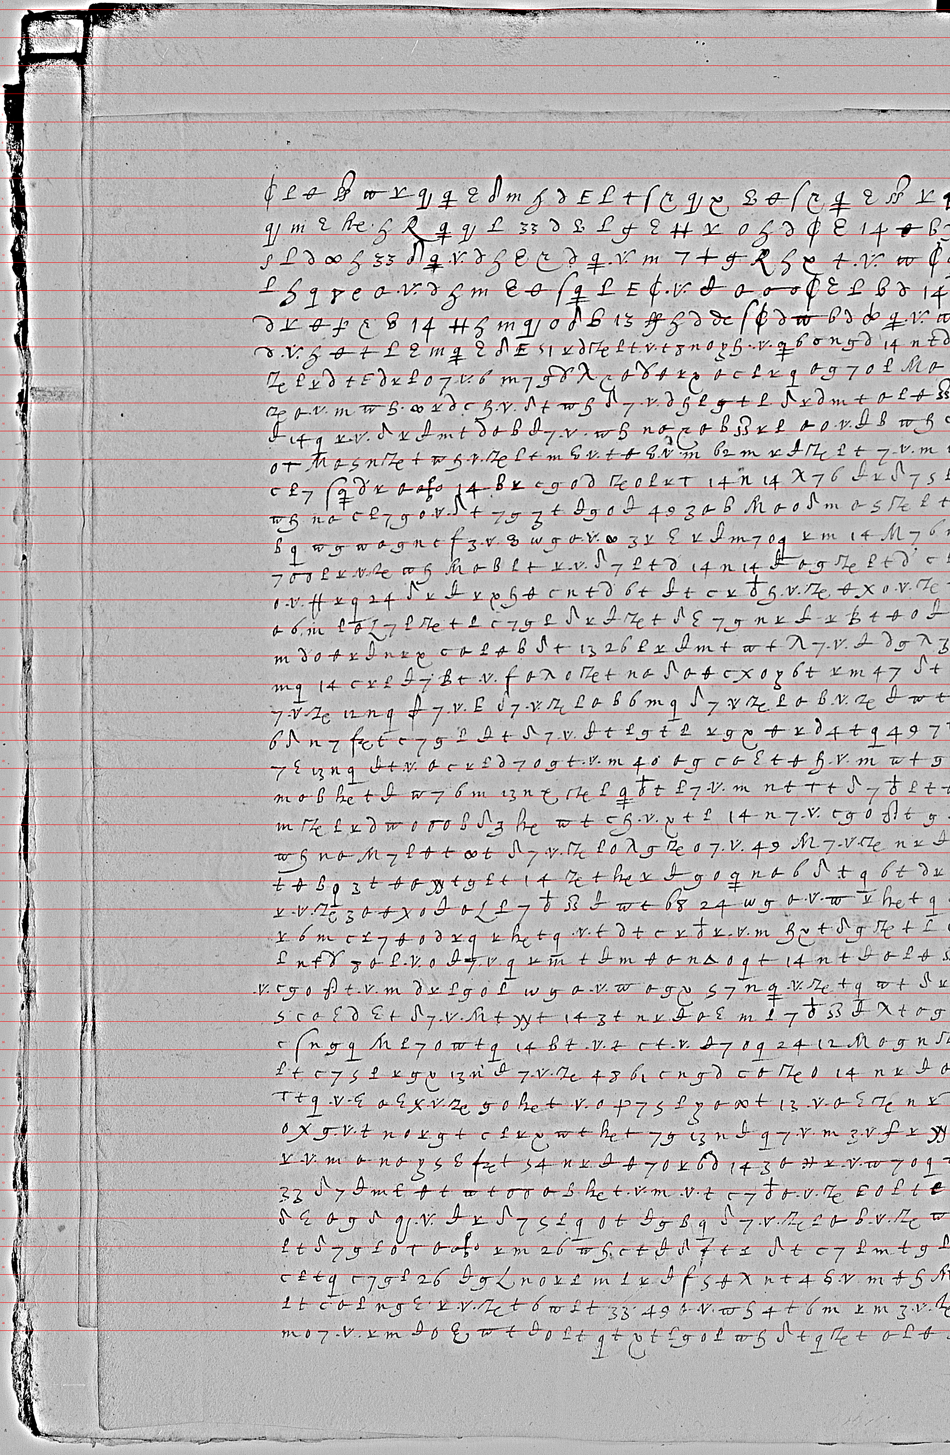
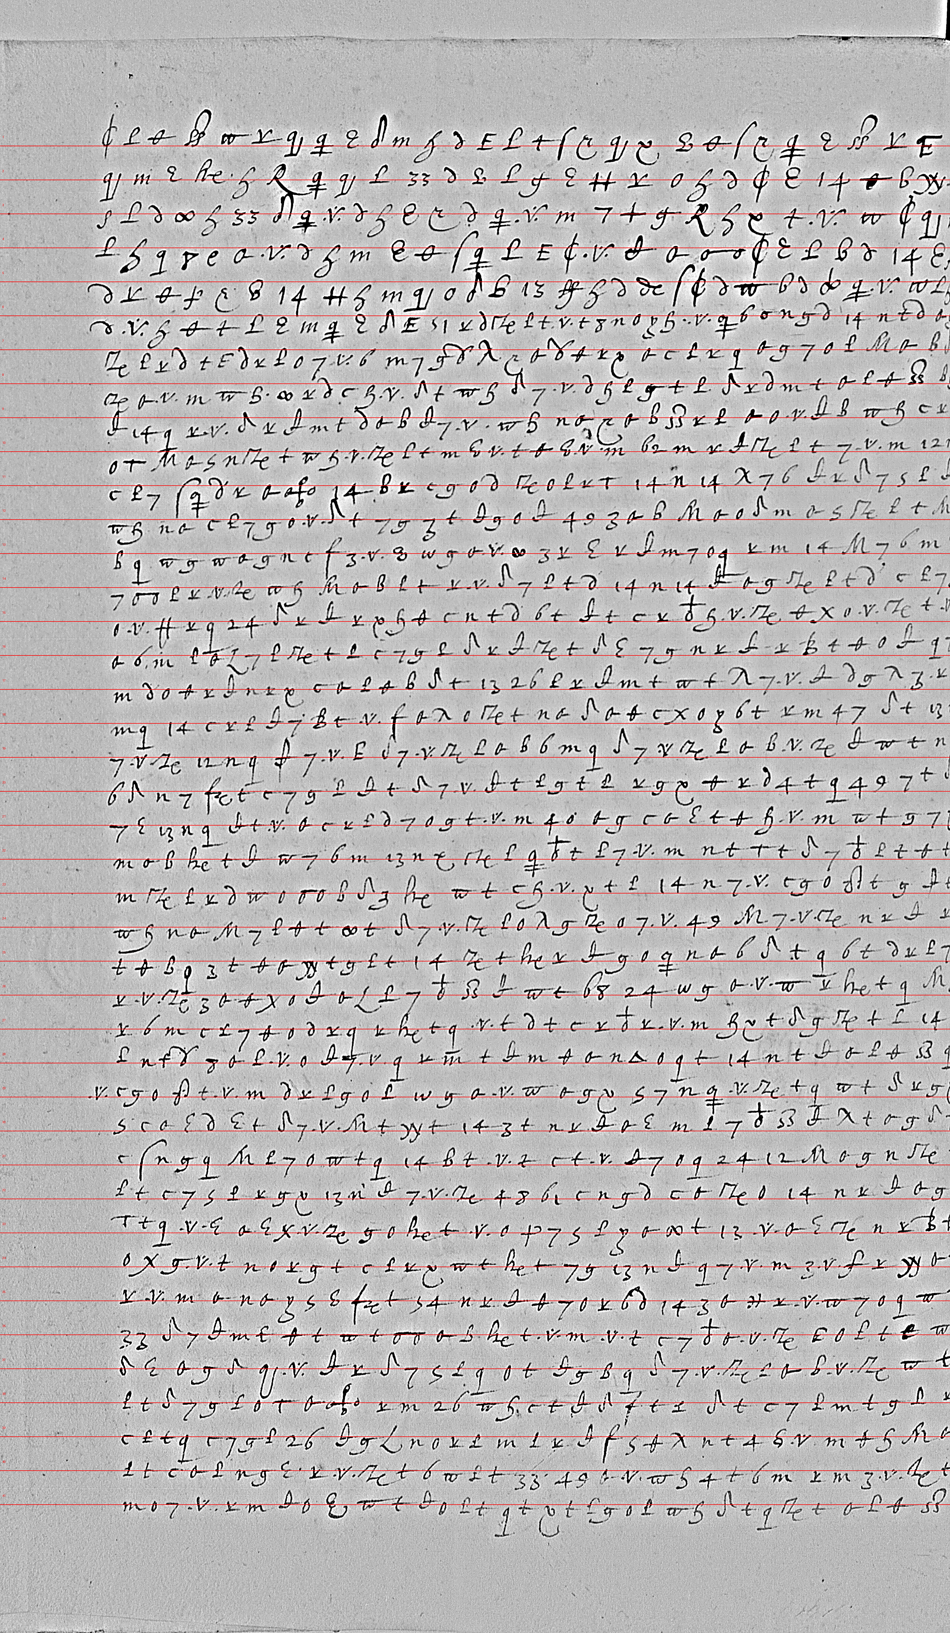
Found a crib for the second cipher, and the first five figure values from it
f. 79r is Mayenne's own letter from the camp at Tonneins, 5 March 1586, signed Charles de Lorraine.
It carries a seven-line cipher block inside the clear text WITH its decipherment down the left
margin - the same crib structure that solved Cipher-1 from f. 14v/f. 15r. The margin's line
openings are lost in the binding, but it yields Janvier, recouvrement des places, rafraischir,
"l'armee sur la fin de l'automne, je pouray mettre en liberte ... la Rouergue et la Quercy", fruict,
"vous pourrez attendre", ceste annee.

"rouergue" has the repeat pattern X Y Z W X V Z W, which matches the block's 244 figures in exactly
one place: 4+ 6 h f 4+ B h f. So 4+=r, 6=o, h=u, f=e, B=g - and 4+=m, h=e in Cipher-1, which proves
from a crib, not from statistics, that this is a different key.

Adds FIX= to hillclimb.py to hold known values while the rest anneals.

diff --git a/matignon1586/hillclimb.py b/matignon1586/hillclimb.py
@@ -1,52 +1,76 @@
-"""Solve a homophonic substitution from scratch: simulated annealing over symbol->letter maps,
-scored by the period-French character model.
-   python hillclimb.py <cipher.txt> [restarts] [iters]"""
-import sys, random, math, collections
+"""Cold solve of a homophonic substitution: annealing over figure->letter maps, scored by the
+period-French character model with a penalty on the decoded letter distribution.
+Scoring is incremental - changing one figure only disturbs its own positions and the few
+characters that follow them - which is what makes the search affordable.
+   python hillclimb.py <cipher.txt> [restarts] [iters]      env: BETA (default 2.0), SEED"""
+import sys, os, math, random, collections, pickle
 from solve import logp, segment
 AL = 'abcdefghilmnopqrstuxyz'
-FR = 'esaitnrulodcmpvqfgbhxyz'.replace('v', '')   # rough French frequency order, period spelling
+W = 6                                   # model order
 toks = open(sys.argv[1], encoding='utf-8').read().split()
 restarts = int(sys.argv[2]) if len(sys.argv) > 2 else 6
-iters = int(sys.argv[3]) if len(sys.argv) > 3 else 12000
+iters = int(sys.argv[3]) if len(sys.argv) > 3 else 20000
+BETA = float(os.environ.get('BETA', '2.0'))
+random.seed(int(os.environ.get('SEED', '1')))
+n = len(toks)
 syms = [s for s, _ in collections.Counter(toks).most_common()]
-freq = collections.Counter(toks)
-import pickle
-D = pickle.load(open('lm.pkl', 'rb')); U = D['cnt'][1]
-tot1 = sum(U[c] for c in AL)
-PF = {c: U[c]/tot1 for c in AL}          # French letter frequencies
-BETA = float(__import__('os').environ.get('BETA', '2.0'))
-def score(m):
-    s = 0.0; ctx = ''; cnt = collections.Counter()
-    for t in toks:
-        ch = m[t]; s += logp(ctx, ch); ctx = (ctx+ch)[-6:]; cnt[ch] += 1
-    n = len(toks)
-    # KL(decoded letters || French): stops the search collapsing onto one letter
-    kl = sum((cnt[c]/n)*math.log((cnt[c]/n)/PF[c]) for c in AL if cnt[c])
-    return s - BETA*n*kl
+pos = collections.defaultdict(list)
+for i, t in enumerate(toks): pos[t].append(i)
+D = pickle.load(open('lm.pkl', 'rb')); U1 = D['cnt'][1]
+tot1 = sum(U1[c] for c in AL); PF = {c: U1[c]/tot1 for c in AL}
+def full(ch):
+    s = 0.0
+    for i in range(n):
+        s += logp(''.join(ch[max(0, i-W+1):i]), ch[i])
+    return s
+def kl(cnt):
+    return sum((cnt[c]/n)*math.log((cnt[c]/n)/PF[c]) for c in AL if cnt[c])
 best_overall = None
+FIX = dict(p.split('=') for p in os.environ.get('FIX','').split(',') if p)
+SEEDKEY = os.environ.get('SEEDKEY')       # start from a known key instead of at random
+import json
+seed = {}
+if SEEDKEY:
+    k = json.load(open(SEEDKEY))
+    seed = {t: k[t][0] for t in k if t in pos and len(k[t][0]) == 1}
 for r in range(restarts):
-    # seed: most frequent figure -> most frequent French letter, with jitter
-    m = {}
-    for i, s in enumerate(syms):
-        m[s] = FR[min(i % len(FR), len(FR)-1)] if r == 0 else random.choice(AL)
-    cur = score(m); T0, T1 = 3.0, 0.15
+    m = {s: random.choice(AL) for s in syms}
+    m.update({k: v for k, v in FIX.items() if k in pos})
+    if SEEDKEY:
+        for t, c in seed.items():
+            if r == 0 or random.random() > 0.25: m[t] = c   # later restarts perturb the seed
+    ch = [m[t] for t in toks]
+    cnt = collections.Counter(ch)
+    lm = full(ch); cur = lm - BETA*n*kl(cnt)
     bestc, bestm = cur, dict(m)
+    T0, T1 = 2.5, 0.08
     for it in range(iters):
         T = T0*(T1/T0)**(it/iters)
-        s = random.choice(syms); old = m[s]; new = random.choice(AL)
+        s = random.choice(syms)
+        if s in FIX: continue
+        old = m[s]
+        new = random.choice(AL)
         if new == old: continue
-        m[s] = new; nxt = score(m)
-        if nxt > cur or random.random() < math.exp((nxt-cur)/max(T, 1e-6)):
-            cur = nxt
-            if bestm is None or cur > bestc: bestc, bestm = cur, dict(m)
+        idx = pos[s]
+        touched = sorted({j for i in idx for j in range(i, min(n, i+W))})
+        before = sum(logp(''.join(ch[max(0, j-W+1):j]), ch[j]) for j in touched)
+        for i in idx: ch[i] = new
+        after = sum(logp(''.join(ch[max(0, j-W+1):j]), ch[j]) for j in touched)
+        cnt[old] -= len(idx); cnt[new] += len(idx)
+        nlm = lm - before + after
+        nxt = nlm - BETA*n*kl(cnt)
+        if nxt > cur or random.random() < math.exp((nxt-cur)/max(T, 1e-9)):
+            cur, lm, m[s] = nxt, nlm, new
+            if cur > bestc: bestc, bestm = cur, dict(m)
         else:
-            m[s] = old
+            for i in idx: ch[i] = old
+            cnt[old] += len(idx); cnt[new] -= len(idx)
+    print(f'  restart {r}: {bestc:.1f}', file=sys.stderr)
     if best_overall is None or bestc > best_overall[0]:
         best_overall = (bestc, bestm)
-    print(f'  restart {r}: {bestc:.1f}', file=sys.stderr)
 sc, m = best_overall
 txt = ''.join(m[t] for t in toks)
-print(f'score {sc:.1f}  ({len(toks)} figures, {len(syms)} symbols)')
+print(f'score {sc:.1f}  ({n} figures, {len(syms)} symbols, {sc/n:.2f}/fig)')
 print(segment(txt))
 print()
 print('map:', ' '.join(f'{s}={m[s]}' for s in syms))

diff --git a/matignon1586/ciphers.md b/matignon1586/ciphers.md
@@ -42,3 +42,32 @@ score collapses every figure onto `i`, which is exactly what the first run did.
 Two changes fix it: drop Roman-numeral tokens when building the model, and require a context to be
 attested at least 15 times before it is used (a stray eight occurrences of `iiiii` were doing the
 damage). Now: French −1.51, a page of `i` −2.16, random letters −3.99.
+
+## A crib for the second cipher: f. 79r's margin
+
+f. 79r (canvas 85 right) is Mayenne's own letter — *"Du camp de Tonneins ce v.e mars 1586"*, signed
+**Charles de Lorraine** — and it carries a seven-line cipher block inside the clear text with **its
+decipherment written down the left margin**. The margin's line-openings are lost in the binding, but
+what survives reads:
+
+> … ne paroistra pour … campagne … avant … plustost que **Janvier** … **recouvrement** [des]
+> **places** … aussy, et y **rafraischir** … **l'armée sur la fin de l'automne. Je pouray mettre en
+> liberté** … **la Rouergue et la Quercy**, qui e[st] … **fruict** que je [pré]tends … **vous
+> pourrez attendre** … ceste **année**.
+
+**The anchor.** Of the crib words, *rouergue* has a distinctive repeat structure — r·o·u·e·r·g·u·e,
+i.e. the pattern X Y Z W X V Z W. Searched against the block's 244 figures it has **exactly one
+match**, at position 133:
+
+```
+4+  6  h  e  4+  B  h  e
+r   o  u  e  r   g  u  e
+```
+
+So in this cipher `4+`=r, `6`=o, `h`=u, `f`=e, `B`=g — and none of those agree with the solved
+Cipher-1, where `4+`=m and `h`=e. That is independent proof, from a crib rather than from
+statistics, that the second cipher is a different key.
+
+Five letters are not a solution. What they are is the start of one, and the method that produced
+them — pattern-matching a rare word shape against the figure stream — is the method that will
+produce the rest as more of the margin is recovered.
